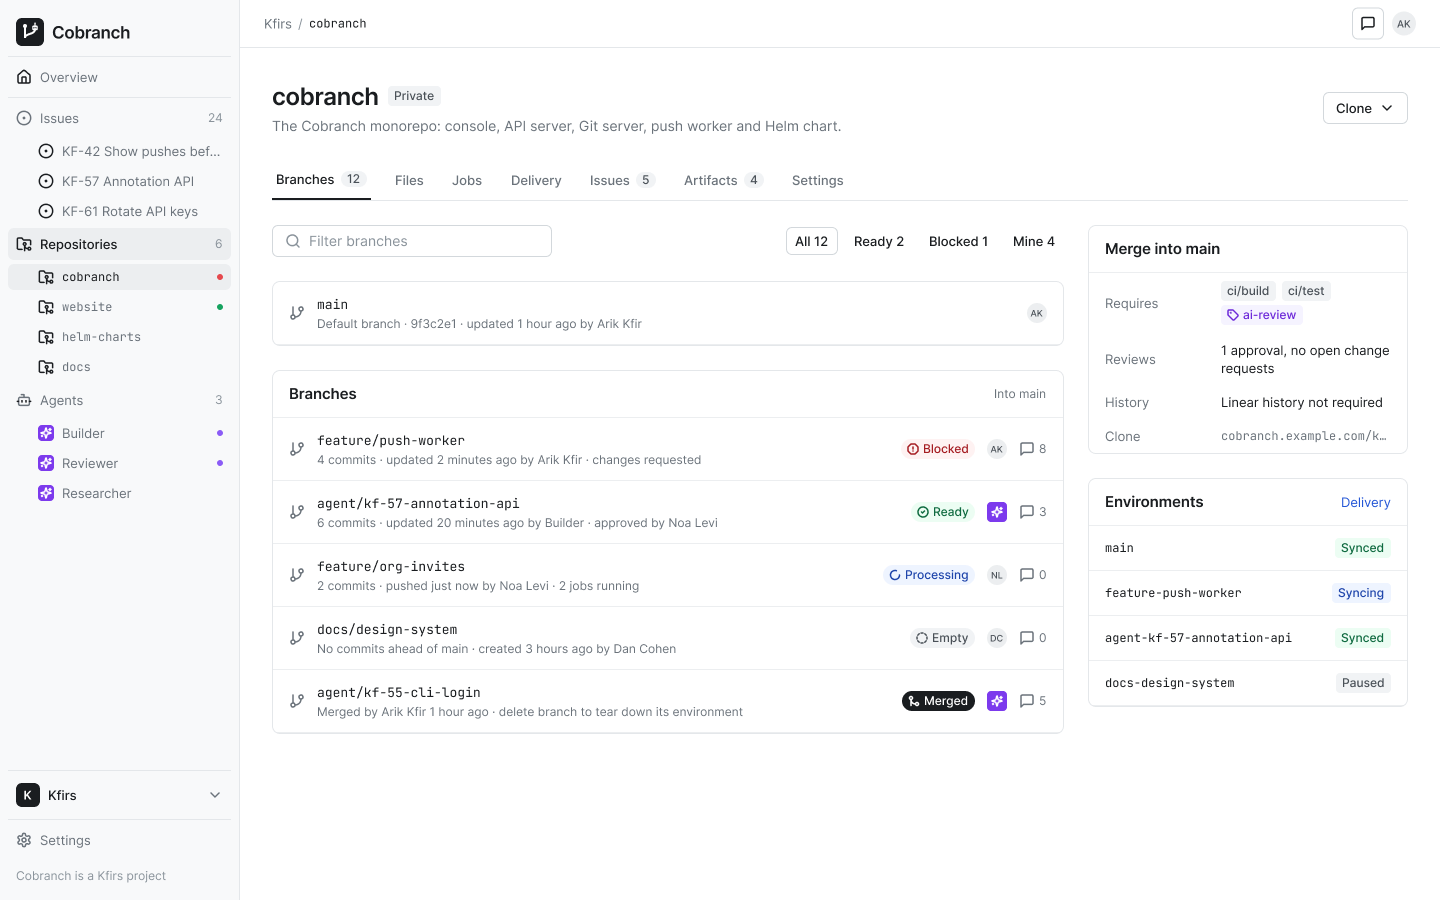
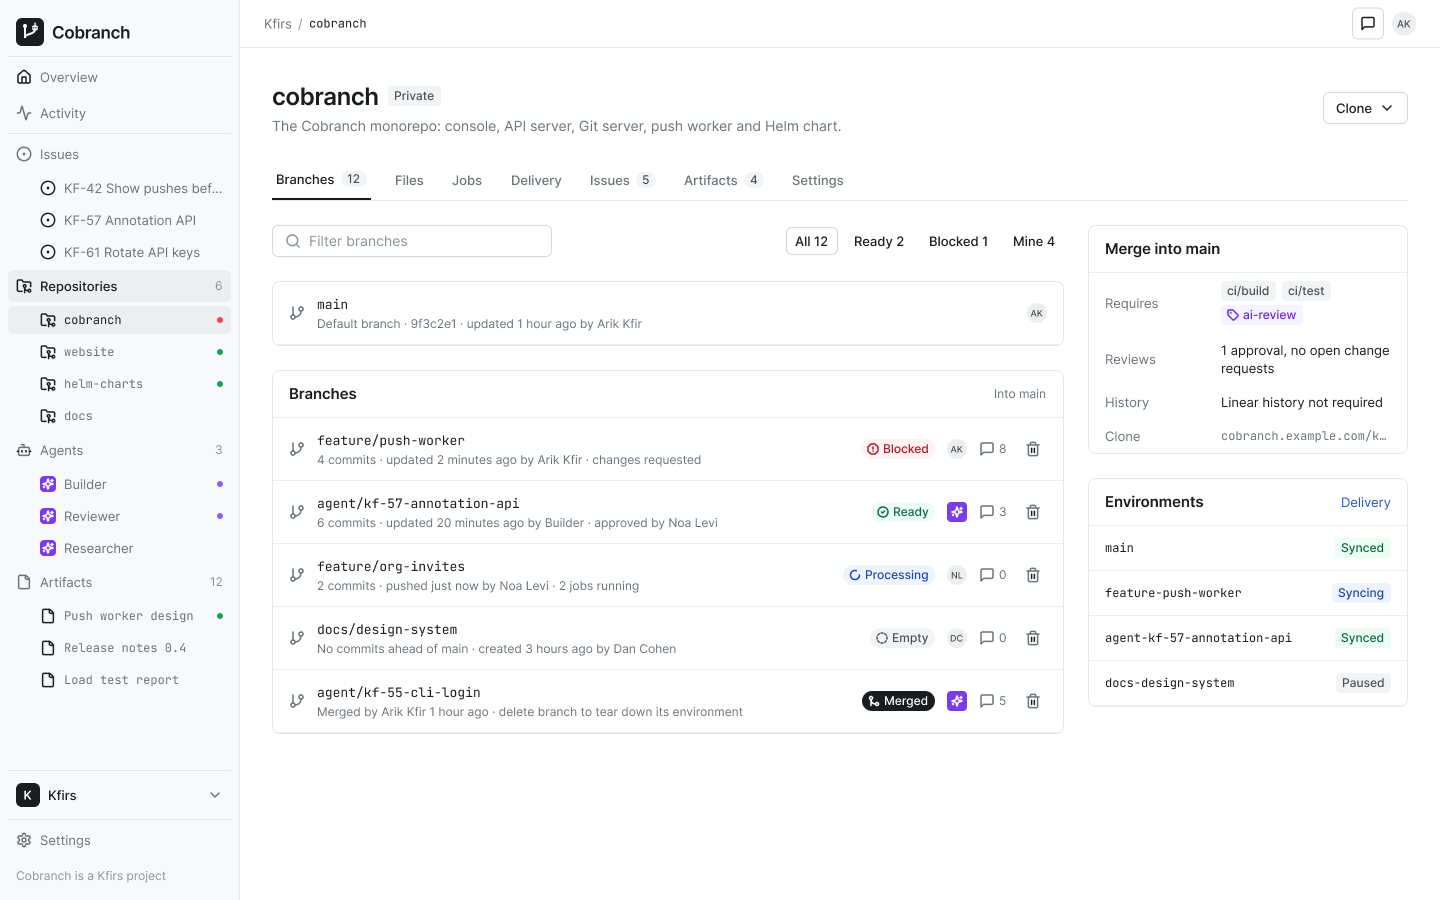
feat(console): delete a branch from its row on the Branches tab
Deleting a branch took opening its page and its menu, one branch at a
time. Each branch row on a repository's Branches tab, main's excepted,
now carries a Delete icon for a viewer who may delete that branch. It
asks with the same confirmation the branch page shows, deletes at the
head the list showed, and draws the list again without the branch.

mayDelete, deleteDialog and deleteBranch move to lib/branches.js so the
branch page and the list share them; the dialog takes what to do once
the branch is gone.

Figma's Branch row gained a Delete icon button behind its Delete
property, on in the Repository screen's rows but main's.

Closes ENG-314

Claude-Session: https://claude.ai/code/session_01UQFik6b3UyR6sxhBiroJTQ

diff --git a/web/console/public/assets/pages/repo/index.js b/web/console/public/assets/pages/repo/index.js
@@ -1,9 +1,10 @@
 import { api } from "../../lib/api.js";
-import { branchBadge, checkShort, processingWhat } from "../../lib/branches.js";
+import { branchBadge, checkShort, deleteDialog, mayDelete, processingWhat } from "../../lib/branches.js";
 import { h } from "../../lib/dom.js";
 import { fromNow, plural, shortSha } from "../../lib/format.js";
 import { authorAvatar, icon } from "../../lib/icons.js";
 import { readTagged } from "../../lib/live.js";
+import { render } from "../../lib/router.js";
 import { config, me } from "../../lib/state.js";
 
 export const nav = { label: "Branches", order: 0 };
@@ -23,11 +24,11 @@ function listBranches(path) {
 }
 
 // repositoryBranches is the repository's first tab, as the Repository screen draws it: its branches, filtered by
-// name and by what they are, main above the rest, and beside them what a merge into main needs and the environments
-// branches deliver to. A repository nothing was pushed to says how to push its first commit. It follows the branches,
+// name and by what they are, main above the rest, each but main with Delete for a viewer who may delete it, and beside
+// them what a merge into main needs and the environments branches deliver to. A repository nothing was pushed to says how to push its first commit. It follows the branches,
 // which it draws in the API's order, as they change.
 export async function repositoryBranches(ctx) {
-  const { path, at, root, follow } = ctx;
+  const { at, root, path, follow } = ctx;
   const [{ branches, tag }, environments] = await Promise.all([listBranches(path),
     api("GET", path + "/environments").then((d) => d.environments, () => [])]);
   follow(path + "/branches", tag);
@@ -36,13 +37,13 @@ export async function repositoryBranches(ctx) {
     h("p", { class: "empty-description" }, "Nothing has been pushed to this repository. Clone it and push main: every other branch is then a request to merge into it.")))];
   const main = branches.find((b) => !b.status);
   const others = branches.filter((b) => b.status);
-  const rows = others.map((b) => [b, branchRow(at, b)]);
+  const rows = others.map((b) => [b, branchRow(ctx, b)]);
   const none = h("li", { class: "branch-row", hidden: true }, h("span", { class: "row-meta" }, "No branches match."));
   const list = others.length ? h("ul", { class: "list" }, rows.map(([, el]) => el), none)
     : h("div", { class: "card-body" }, h("p", { class: "muted" }, "No branches besides main yet. Push one, and it shows here as a request to merge into main."));
   return [h("div", { class: "branches-page" },
     h("div", { class: "branches-main" }, branchFilters(rows, none),
-      main ? h("ul", { class: "list" }, branchRow(at, main)) : null,
+      main ? h("ul", { class: "list" }, branchRow(ctx, main)) : null,
       h("section", { class: "card" }, h("div", { class: "card-header" }, h("h2", { class: "card-title" }, "Branches"), h("span", { class: "card-meta" }, "Into main")), list)),
     h("div", { class: "branches-side" }, main ? mergeCard(ctx, main) : null, environmentsCard(at, root, environments)))];
 }
@@ -77,13 +78,17 @@ function branchFilters(rows, none) {
 }
 
 // branchRow is a branch as a Branch row: its name, over what it would merge, when it moved and by whose head, and
-// where it stands; its status, and the avatar of its head's author.
-function branchRow(at, b) {
+// where it stands; its status, the avatar of its head's author, and Delete for a viewer who may delete it, which asks
+// as the branch's page does and leaves the repository's branches drawn without it.
+function branchRow({ path, at, can }, b) {
   const author = b.commit && b.commit.author;
   const meta = branchMeta(b);
+  const label = "Delete " + b.name;
   return h("li", { class: "branch-row" }, icon("git-branch"),
     h("div", { class: "row-text" }, h("a", { class: "row-title", href: at.branchPage(b.name), "data-nav": "" }, b.name), h("span", { class: "row-meta", title: meta }, meta)),
-    b.status ? branchBadge(b.status) : null, author ? authorAvatar(author) : null);
+    b.status ? branchBadge(b.status) : null, author ? authorAvatar(author) : null,
+    mayDelete(b, can) ? h("button", { class: "icon-btn icon-btn-ghost icon-btn-sm", type: "button", "aria-label": label, title: label,
+      onclick: () => deleteDialog(path, b, render) }, icon("trash-2")) : null);
 }
 
 // branchMeta is the line under a branch's name in its row: main's head, or what a branch would merge, when it moved

diff --git a/web/console/public/assets/pages/repo/branches.js b/web/console/public/assets/pages/repo/branches.js
@@ -1,8 +1,8 @@
 import { annotationStatuses, commitAnnotations } from "../../lib/annotations.js";
 import { api, apiPage } from "../../lib/api.js";
-import { aiCheckStates, branchBadge, branchStatuses, checkShort, processingWhat } from "../../lib/branches.js";
+import { aiCheckStates, branchBadge, branchStatuses, checkShort, deleteBranch, deleteDialog, mayDelete, processingWhat } from "../../lib/branches.js";
 import { branchSubject } from "../../lib/chat.js";
-import { ask, dialog } from "../../lib/dialog.js";
+import { dialog } from "../../lib/dialog.js";
 import { diffView } from "../../lib/diff.js";
 import { h } from "../../lib/dom.js";
 import { banner, checkbox, field, input } from "../../lib/forms.js";
@@ -308,9 +308,6 @@ async function deletedBranchPage({ path, at, root }, name) {
     h("p", {}, "It was at ", head, d.commit ? [" · ", messageSubject(d.commit.message)] : null, "."), h("p", {}, merged)))];
 }
 
-// mayDelete reports whether the viewer may delete b: with repo.push, and repo.bypass too for a branch main's
-// /cobranch.yaml names. main is never deleted.
-const mayDelete = (b, can) => b.name !== "main" && can("repo.push") && (!b.requirements || can("repo.bypass"));
 // mayMerge reports whether the viewer may merge b, Ready, into its base: with repo.merge, while it has commits to merge.
 const mayMerge = ({ can }, b) => b.base && b.status !== "merged" && can("repo.merge");
 
@@ -330,7 +327,7 @@ function branchMenu(anchor, ctx, b) {
         then(() => api("POST", path + "/branches/" + encodeURIComponent(b.name) + "/review").then(render).catch(fail))) : null,
       h("a", { class: "menu-item", href: at.history(b.name), "data-nav": "", role: "menuitem", onclick: close }, icon("history"), h("span", {}, "History")),
       anyway ? [h("hr", { class: "menu-divider" }), item("git-branch", "Merge anyway", then(() => mergeDialog(ctx, b, true)))] : null,
-      mayDelete(b, can) ? [h("hr", { class: "menu-divider" }), item("x", "Delete branch", then(() => deleteDialog(ctx, b)), true)] : null];
+      mayDelete(b, can) ? [h("hr", { class: "menu-divider" }), item("x", "Delete branch", then(() => deleteDialog(path, b, () => go(at.branchPage(b.name).slice(base.length - 1)))), true)] : null];
   })?.classList.add("branch-menu");
 }
 
@@ -362,19 +359,6 @@ function mergeDialog({ path, can }, b, anyway) {
   dialog("Merge " + b.name + " into " + b.base, [warning, how, remove ? checkbox(remove, "Delete the branch once merged") : null],
     anyway ? "Merge anyway" : "Merge", anyway ? "btn-danger" : "btn-primary", merge);
 }
-
-// deleteDialog asks before it deletes b at the head the page shows: plainly for a Merged or Empty branch, and naming
-// the commits main lacks for any other.
-function deleteDialog({ path, at }, b) {
-  const done = b.status === "merged" || b.status === "empty";
-  const lacks = b.ahead ? plural(b.ahead, "commit") + " main lacks" : "commits main may lack";
-  ask("Delete " + b.name + "?", done ? "Its commits stay in main's history, and its environments are torn down."
-    : "It has " + lacks + ", and no branch will hold them any more. Its environments are torn down.", "Delete branch",
-  () => deleteBranch(path, b).then(() => go(at.branchPage(b.name).slice(base.length - 1))));
-}
-
-// deleteBranch deletes b at the head the page showed, which refuses one that moved since.
-const deleteBranch = (path, b) => api("DELETE", path + "/branches/" + encodeURIComponent(b.name), undefined, { "If-Match": '"' + b.head + '"' });
 
 // linkDialog links b to an issue of the organization, by its identifier or number, in place of the one it works on,
 // or unlinks that one.

diff --git a/web/console/public/assets/lib/branches.js b/web/console/public/assets/lib/branches.js
@@ -1,4 +1,6 @@
 import { annotationStatuses } from "./annotations.js";
+import { api } from "./api.js";
+import { ask } from "./dialog.js";
 import { h } from "./dom.js";
 import { plural } from "./format.js";
 import { icon } from "./icons.js";
@@ -52,3 +54,21 @@ export function processingWhat(b) {
   if (running) return running.name + " " + annotationStatuses[running.status].word.toLowerCase();
   return reviewing ? "AI review " + aiCheckStates[reviewing.ai].word.toLowerCase() : "processing its last push";
 }
+
+// mayDelete reports whether the viewer may delete b: with repo.push, and repo.bypass too for a branch main's
+// /cobranch.yaml names. main is never deleted.
+export const mayDelete = (b, can) => b.name !== "main" && can("repo.push") && (!b.requirements || can("repo.bypass"));
+
+// deleteDialog asks before it deletes b of the repository at path, at the head the page shows: plainly for a Merged or
+// Empty branch, and naming the commits main lacks for any other. Once it is deleted, deleted shows where the page goes:
+// the branch's page shows its deletion, the repository's branches draw themselves without it.
+export function deleteDialog(path, b, deleted) {
+  const done = b.status === "merged" || b.status === "empty";
+  const lacks = b.ahead ? plural(b.ahead, "commit") + " main lacks" : "commits main may lack";
+  ask("Delete " + b.name + "?", done ? "Its commits stay in main's history, and its environments are torn down."
+    : "It has " + lacks + ", and no branch will hold them any more. Its environments are torn down.", "Delete branch",
+  () => deleteBranch(path, b).then(deleted));
+}
+
+// deleteBranch deletes b at the head the page showed, which refuses one that moved since.
+export const deleteBranch = (path, b) => api("DELETE", path + "/branches/" + encodeURIComponent(b.name), undefined, { "If-Match": '"' + b.head + '"' });

diff --git a/docs/cobranch/designs/design-system.md b/docs/cobranch/designs/design-system.md
@@ -276,7 +276,7 @@ plan.
 | App/Conversation pane, App/User menu | None | Subject and scope; the user menu holds the theme | `.app-pane`, `.app-user-menu` (`lib/shell.css`) |
 | Commit row | None | Message, meta, SHA; author avatar and annotation icons nested | `.commit-row` in a `.list` |
 | Annotation row | Status (as Badge/Annotation) | Name, linking to its page (a job's run, a target's environment, else the annotation's link), description, duration; creator avatar nested | `.annotation-row` in a `.list`, a linked name `a.row-title` |
-| Branch row | None | Name, meta, message count; status badge and author avatar nested | `.branch-row` in a `.list` |
+| Branch row | None | Name, meta, message count; status badge and author avatar nested; Delete (a Small Ghost Icon button, trash-2) for a viewer who may delete the branch, never on main | `.branch-row` in a `.list`, Delete an `.icon-btn.icon-btn-ghost.icon-btn-sm` |
 | Chat message | Author: Person, Agent | Name, time, body, code reference; on hover Copy, Edit and Delete; Cobranch's own status reply is a Machine avatar and a muted body | `.chat-message`, `.chat-message-status` (`lib/shell.css`) |
 | Pattern/Inline code | None | Text in backticks within written text, in Code/Medium on `bg/code`, never in a file's contents; a Markdown text box marks it as it is typed, its backticks kept | `.inline-code`, `code` in a `.chat-message-body` or rendered Markdown; `markCode` (`lib/codemarks.js`) around a textarea |
 | Repository row, Issue row, Member row | None | Name or title, description or email, meta; tags, avatars and role nested | `.repository-row`, `.issue-row`, `.member-row` in a `.list` |

diff --git a/docs/cobranch/designs/branch-status.md b/docs/cobranch/designs/branch-status.md
@@ -316,6 +316,10 @@ A branch of that name pushed again later is a new branch, and its page shows it 
 - **A branch's page** offers Delete branch to a viewer who may delete it: a plain confirmation on a Merged or Empty
   branch, and on any other a danger button whose confirmation names how many commits `main` lacks. It deletes at the
   head the page shows.
+- **A repository's Branches tab** offers the same deletion on each branch's row, main's excepted, to a viewer who may
+  delete that branch: a trash icon at the row's end, so cleaning up merged branches needs no visit to each one
+  ([ENG-314](https://linear.app/arikkfir/issue/ENG-314)). It asks with the same confirmation, deletes at the head the
+  list shows, and draws the list again without the branch.
 - **Merging offers to delete in the same step:** Delete the branch once merged, checked by default, next to the Merge
   button. The Console merges, then deletes the branch at the head it merged; a branch that moved in between is kept, and
   the merge stands.
